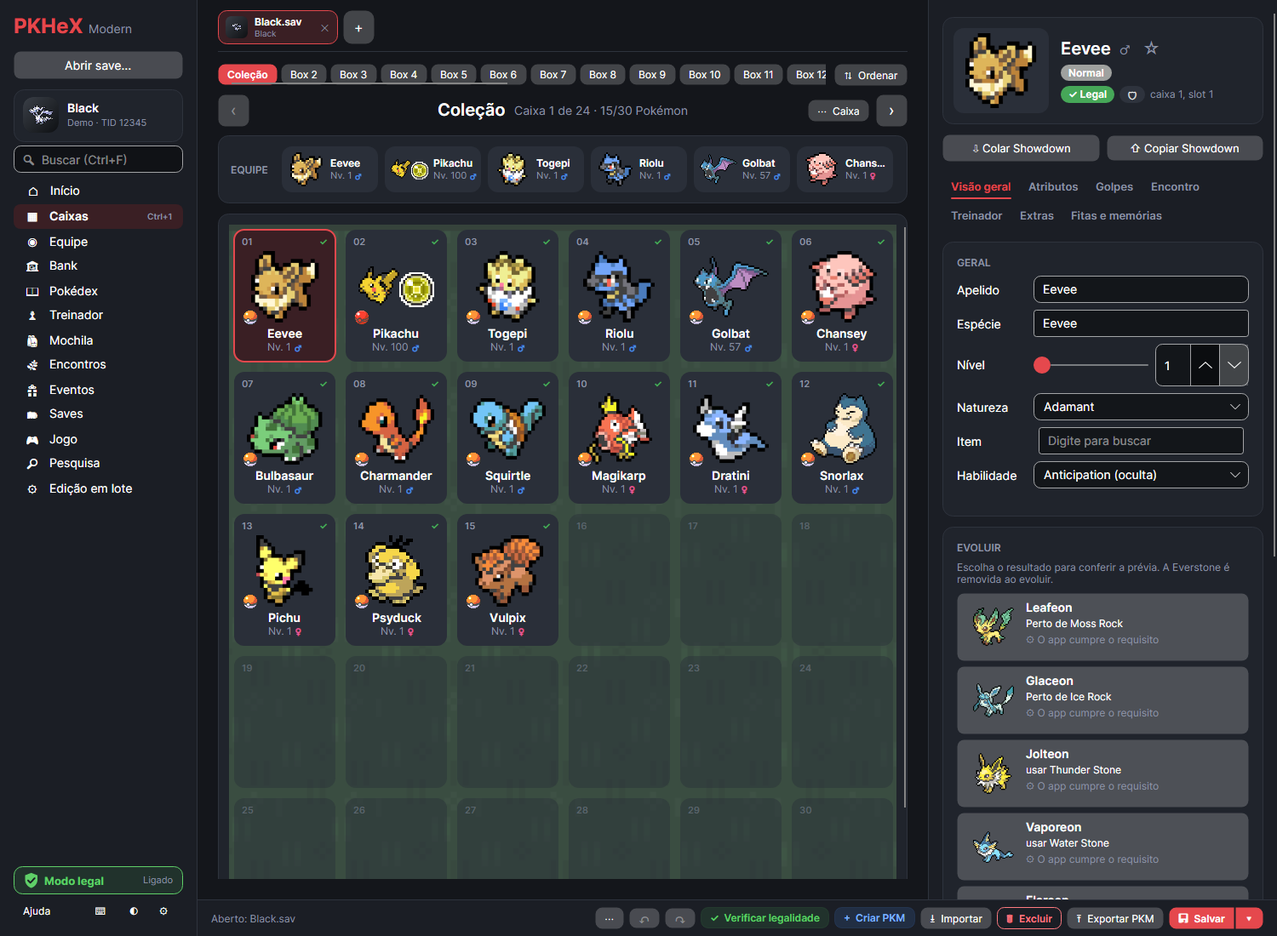
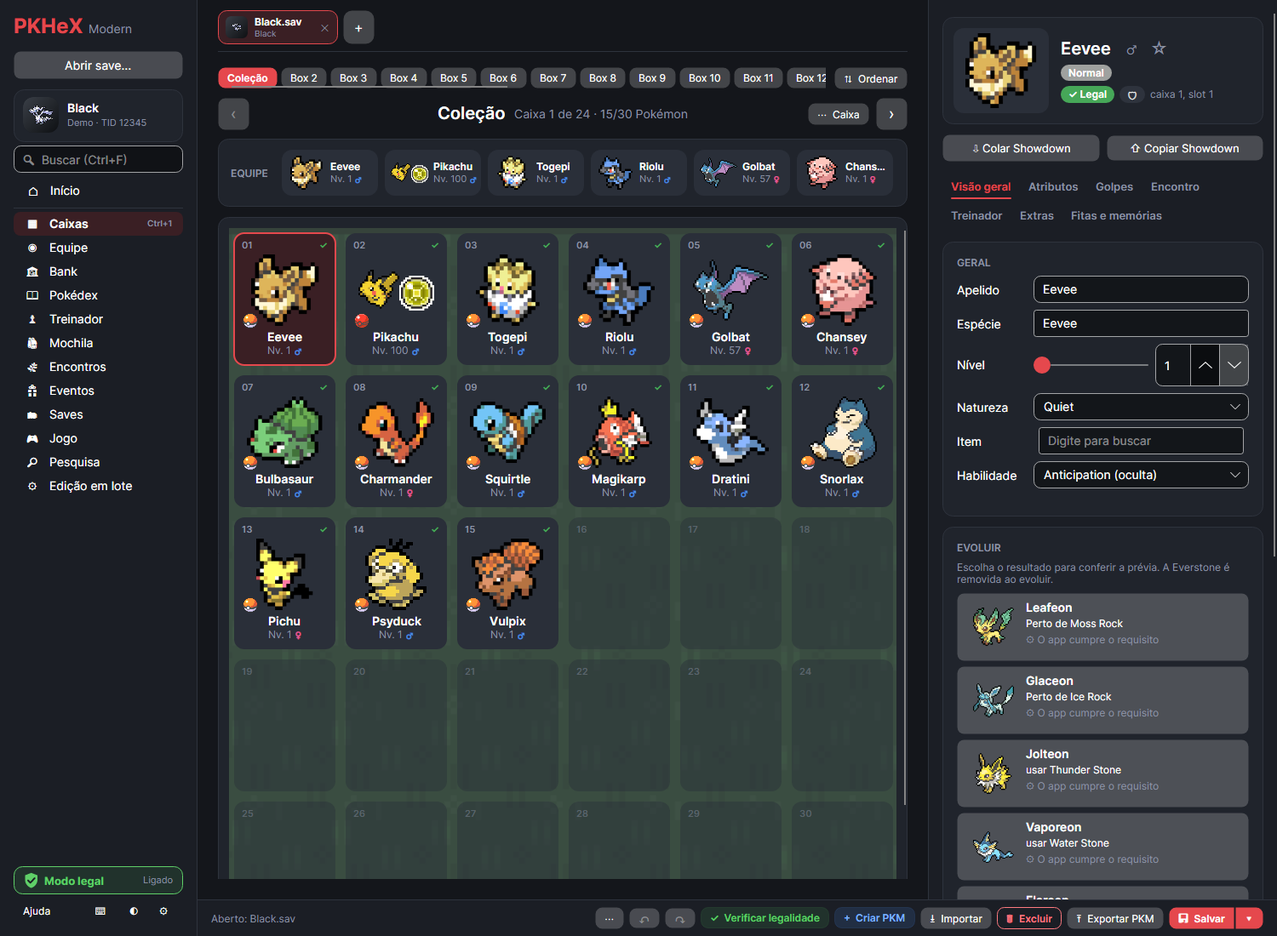
PKHeX.Modern: release 0.4.26 (phone layout fixes)
Editor header name and party card names shrink to fit wide fonts (gender
and shiny stay visible), Home cards in a row share the same height,
sidebar rows have a fixed height (Android emoji glyphs had different
heights) with a separator below Home, more space between file and box
tabs, narrower Pokédex details on smaller screens. Docs screenshots
updated.

diff --git a/PKHeX.Modern/Controls/Converters.cs b/PKHeX.Modern/Controls/Converters.cs
@@ -84,3 +84,14 @@ public sealed class WidthPickConverter : IValueConverter
 
     public object ConvertBack(object? value, Type targetType, object? parameter, CultureInfo culture) => throw new NotSupportedException();
 }
+
+/// <summary>Largura menos um valor fixo (parametro), nunca negativa. Ex.: espaco do nome descontando botoes ao lado.</summary>
+public sealed class SubtractConverter : IValueConverter
+{
+    public static readonly SubtractConverter Instance = new();
+
+    public object Convert(object? value, Type targetType, object? parameter, CultureInfo culture)
+        => value is double d && d > 0 ? Math.Max(0, d - double.Parse(parameter as string ?? "0", CultureInfo.InvariantCulture)) : double.PositiveInfinity;
+
+    public object ConvertBack(object? value, Type targetType, object? parameter, CultureInfo culture) => throw new NotSupportedException();
+}

diff --git a/PKHeX.Modern/CONTINUAR.md b/PKHeX.Modern/CONTINUAR.md
@@ -126,7 +126,7 @@ No GitHub, o workflow `.github/workflows/modern-build.yml` publica a cada push n
 - **Pendências:** `MainViewModel.PendingActions` = descrições do `SlotHistory` desde o último salvar/abrir (`_historyAtSave`). O link "● N alterações" abre a lista; "Salvar agora" dispara `SaveRequested`, que a `MainWindow` trata abrindo o seletor de arquivo.
 
 ## Estado atual e próximo passo (depois da 0.4.5 — 2026-10-03)
-- **Onde parou (15/10/2026):** última release **0.4.25** (revisão de UI/UX: cabeçalho da caixa numa linha com menu “⋯ Caixa”, painel do editor de 360 px abaixo de 1400 px — `WidthPickConverter`/`WidthAtLeastConverter` em `Controls/Converters.cs` —, Salvar ▾ com Salvar como, rodapé só com ações do save, Excluir com contorno, “Aplicar” x “Salvar” em todo o app, Mochila com vagas livres, nomes dos bolsos em português, Ajuda marcada na barra lateral). Pendentes da análise: ícones vetoriais, grupos na barra lateral (mudaria Ctrl+1–9) e Início com status do save; antes, **0.4.24** (Treinador com insígnias/gênero/moedas/BP/datas — `Services/TrainerExtras.cs`; completar a Pokédex do save — `Services/DexCompletion.cs`, desfazer da página Pokédex pelo histórico da página Jogo; atalhos de liberar tudo — O-Powers, Super Training, Zygarde Cells, Grand Underground, esferas); antes, **0.4.23** (sincronizado com o PKHeX do kwsch até 13/10: versão do HGSS, Dratini com ExtremeSpeed, PSS6, papéis de parede que faltavam, portados para `PKHeX.Modern.Sprites/WallpaperUtil.cs`); antes, **0.4.22** (temas ORAS e Kanto, tamanho dos sprites, página de divulgação); antes, **0.4.21** (editores por jogo, etapa 4); antes, **0.4.20** (Pokédex só do save aberto, Todos os TMs, roamers da Gen 3; antes, na 0.4.19: sexta leva do Codex juntada e publicada; não há leva pendente). Histórico: depois da **0.4.17** (ver “Última release” abaixo); em seguida: Android em tela cheia, repositório renomeado para PKHeX-Modern e sexta tarefa do Codex (`TAREFA-CODEX-FUNCOES-6.md`: auditoria de duplicados e aplicar a Living Dex). Antes, na 0.4.16: a **terceira leva do Codex** (prévia de alterações, legalidade por assunto, diagnóstico, planejador de Living Dex; branch `modern-features-3`) com a revisão do Claude (`b5503b2cc`: Pokébola legal pela cor — o termo “Bola legal” virou “Pokébola legal” —, Encontros da Living Dex no save aberto, transferências só perguntam com mudança importante, legalizar em grupo pergunta antes, mensagens do Legalizar de volta, Ajuda nas seções certas) e o **Legalizar em lote** (ação rápida da Edição em lote; Aplicar grava exatamente o pré-visualizado). Na época, as 43 suítes passaram (nenhuma pulada: `saves/` deste PC já tem Shield, Scarlet, Z-A e Legends Arceus) e o Android compilou. Está anotado em "Próxima versão" no CHANGELOG. Também juntada a **quarta leva do Codex** (seleção por toque no Android, prévia dos temas e intensidade do papel de parede, consulta do Bank somente leitura, backups com motivo e SHA-256, uma análise de legalidade por atualização no editor; branch `modern-features-4`) com a revisão do Claude (`3232348f5`: no toque, segurar um botão mostra a dica sem executar, em vez de um ⓘ em todo botão; segurar e arrastar um slot não deixa a seleção ligada). 48 suítes passaram e o Android compilou; falta testar no aparelho o toque longo e o arraste. Na 0.4.17: **Equipe Showdown** (`Services/ShowdownBatch.cs`, `MainViewModel.ShowdownTeam.cs`: colar vários sets na equipe ou na caixa com prévia e um desfazer, copiar equipe/caixa; teste `ShowdownTeam`), correção de espécie fora do formato no Colar Showdown, Pesquisa lendo cópias dos saves em modo somente leitura, Living Dex com `BoxSlotCount` e “outros exemplares”, `SlotHistory.Rollback()`. **Quinta leva do Codex** (`TAREFA-CODEX-FUNCOES-5.md`: evolução assistida e relatório CSV) revisada (`bc689f39b`: lista Evoluir sem rolagem própria) e publicada; auditoria de duplicados e aplicação da Living Dex avaliadas e adiadas em `CONSULTA-CLAUDE-AUDITORIA-DUPLICADOS.md`. O Codex trabalha neste PC em `.worktrees/` (excluído do Git; as worktrees das levas 3–6 foram apagadas depois de juntadas); o JDK 21 do build Android fica em `.tools/jdk-21`.
+- **Onde parou (15/10/2026):** última release **0.4.26** (ajustes do celular: nome do editor e da Equipe encolhem com `Viewbox StretchDirection=DownOnly` + `SubtractConverter`, cartões do Início com `VerticalAlignment=Stretch`, linhas da barra lateral com altura fixa de 28 px por causa dos emojis do Android, separador entre Início e a lista, painel da Pokédex de 250 px abaixo de 1400 px; o celular em paisagem mede ~1342×620 em unidades de projeto). Antes, **0.4.25** (revisão de UI/UX: cabeçalho da caixa numa linha com menu “⋯ Caixa”, painel do editor de 360 px abaixo de 1400 px — `WidthPickConverter`/`WidthAtLeastConverter` em `Controls/Converters.cs` —, Salvar ▾ com Salvar como, rodapé só com ações do save, Excluir com contorno, “Aplicar” x “Salvar” em todo o app, Mochila com vagas livres, nomes dos bolsos em português, Ajuda marcada na barra lateral). Pendentes da análise: ícones vetoriais, grupos na barra lateral (mudaria Ctrl+1–9) e Início com status do save; antes, **0.4.24** (Treinador com insígnias/gênero/moedas/BP/datas — `Services/TrainerExtras.cs`; completar a Pokédex do save — `Services/DexCompletion.cs`, desfazer da página Pokédex pelo histórico da página Jogo; atalhos de liberar tudo — O-Powers, Super Training, Zygarde Cells, Grand Underground, esferas); antes, **0.4.23** (sincronizado com o PKHeX do kwsch até 13/10: versão do HGSS, Dratini com ExtremeSpeed, PSS6, papéis de parede que faltavam, portados para `PKHeX.Modern.Sprites/WallpaperUtil.cs`); antes, **0.4.22** (temas ORAS e Kanto, tamanho dos sprites, página de divulgação); antes, **0.4.21** (editores por jogo, etapa 4); antes, **0.4.20** (Pokédex só do save aberto, Todos os TMs, roamers da Gen 3; antes, na 0.4.19: sexta leva do Codex juntada e publicada; não há leva pendente). Histórico: depois da **0.4.17** (ver “Última release” abaixo); em seguida: Android em tela cheia, repositório renomeado para PKHeX-Modern e sexta tarefa do Codex (`TAREFA-CODEX-FUNCOES-6.md`: auditoria de duplicados e aplicar a Living Dex). Antes, na 0.4.16: a **terceira leva do Codex** (prévia de alterações, legalidade por assunto, diagnóstico, planejador de Living Dex; branch `modern-features-3`) com a revisão do Claude (`b5503b2cc`: Pokébola legal pela cor — o termo “Bola legal” virou “Pokébola legal” —, Encontros da Living Dex no save aberto, transferências só perguntam com mudança importante, legalizar em grupo pergunta antes, mensagens do Legalizar de volta, Ajuda nas seções certas) e o **Legalizar em lote** (ação rápida da Edição em lote; Aplicar grava exatamente o pré-visualizado). Na época, as 43 suítes passaram (nenhuma pulada: `saves/` deste PC já tem Shield, Scarlet, Z-A e Legends Arceus) e o Android compilou. Está anotado em "Próxima versão" no CHANGELOG. Também juntada a **quarta leva do Codex** (seleção por toque no Android, prévia dos temas e intensidade do papel de parede, consulta do Bank somente leitura, backups com motivo e SHA-256, uma análise de legalidade por atualização no editor; branch `modern-features-4`) com a revisão do Claude (`3232348f5`: no toque, segurar um botão mostra a dica sem executar, em vez de um ⓘ em todo botão; segurar e arrastar um slot não deixa a seleção ligada). 48 suítes passaram e o Android compilou; falta testar no aparelho o toque longo e o arraste. Na 0.4.17: **Equipe Showdown** (`Services/ShowdownBatch.cs`, `MainViewModel.ShowdownTeam.cs`: colar vários sets na equipe ou na caixa com prévia e um desfazer, copiar equipe/caixa; teste `ShowdownTeam`), correção de espécie fora do formato no Colar Showdown, Pesquisa lendo cópias dos saves em modo somente leitura, Living Dex com `BoxSlotCount` e “outros exemplares”, `SlotHistory.Rollback()`. **Quinta leva do Codex** (`TAREFA-CODEX-FUNCOES-5.md`: evolução assistida e relatório CSV) revisada (`bc689f39b`: lista Evoluir sem rolagem própria) e publicada; auditoria de duplicados e aplicação da Living Dex avaliadas e adiadas em `CONSULTA-CLAUDE-AUDITORIA-DUPLICADOS.md`. O Codex trabalha neste PC em `.worktrees/` (excluído do Git; as worktrees das levas 3–6 foram apagadas depois de juntadas); o JDK 21 do build Android fica em `.tools/jdk-21`.
 - **Versão dos saves da Gen 1–3 (`Services/SaveNameHint.cs`):** usa as regras do Core (`SaveLanguage.InferFrom1/2/3`) com mais lugares: nome do arquivo ou da entrada do zip, pasta dentro do zip, nome do zip e pasta do arquivo, nessa ordem; vale a primeira pista coerente com o tipo do save (japonês x ocidental, R/S, FR/LG...). Chamado em `CoreAdapter.LoadSave`, `ZipSaves.TryRead`, `SaveLibrary` e `PokedexService.TryRead`. Sem pista, a versão fica no par (RB, GS, RS, FRLG): `CoreAdapter.GetGameName` mostra "Ruby / Sapphire" e `GameArt` tem `Species2`/`IsDual` (selo duplo, os dois mascotes num `Viewbox` 100×100 em todos os selos). Teste `NameHint`.
 - **Pesquisa (`Services/PokemonDatabase.cs`, `ViewModels/SearchPageViewModel.cs`, template em `App.axaml`):** página no fim da lista (sem Ctrl+número; `Search.Shortcut = "Ctrl+Shift+F"`, tecla tratada em `MainWindow.OnKeyDown`). Lê em segundo plano as abas abertas (a ativa com `_sav`), os saves da pasta (inclusive zip, com cache por data do arquivo) e o bank. `DbEntry` monta os textos uma vez; o filtro roda em memória. `MainViewModel.OpenSearchResultAsync` abre/ativa a aba e chama `GoToSlotAsync`; no bank, troca `Bank.SelectedBank`/`BoxIndex`. **Sem filtro de legalidade de propósito:** a análise depende do save ativo (`ParseSettings`), daria resultado errado nos outros saves. Teste `Search` (saves sintéticos Black/White/W2 em zip + bank).
 - **Saves em branco que gravam:** Gen 5 (B, W, W2) gravam e são reconhecidos; X (Gen 6) grava mas não é reconhecido ao ler; E (Gen 3) e Pt (Gen 4) falham ao gravar.
@@ -149,7 +149,7 @@ No GitHub, o workflow `.github/workflows/modern-build.yml` publica a cada push n
 - **Evolução por felicidade:** `GetFriendshipEvolutions`/`EvolveByFriendship` oferecem os destinos e ajustam `CurrentFriendship` ao mínimo. Gen 2 precisa normalizar os métodos simplificados da tabela. Gen 6/7 Sylveon exige carinho com o treinador atual; Gen 8+ exige felicidade e golpe Fairy. O editor testa uma cópia no modo legal antes de aceitar. Suite sintética `Friendship`: evoluções legais Gen 2–9, aumento de felicidade, nível, ovos, Everstone, prioridade de Sylveon, carinho, reversão de resultado ilegal e render headless.
 - **Repositório renomeado para `carlosmozart/PKHeX-Modern` em 06/10/2026** (fora da rede de forks do kwsch/PKHeX). `UpdateChecker.Repo` usa o nome novo; `UpdateChecker.OldRepo` (o antigo) continua aceito em `AutoUpdater.IsReleaseDownload`. O GitHub redireciona o nome antigo (API, páginas, git). Versões até a 0.4.10 não aceitam links do nome novo e precisam baixar à mão uma vez. Remote: `git remote set-url origin https://github.com/carlosmozart/PKHeX-Modern.git` (em cada PC).
 - **Pasta de saves no Android (resolvido em 03/10/2026):** só apareciam os saves abertos um por um porque a pasta tinha sido escolhida antes da 0.4.10, que não guardava a escolha; escolher a pasta de novo carregou todos os saves de `roms/saves`. A 0.4.12 mostra o resumo da leitura na barra de status (`MobileSaveFolder.LastSummary`) e pula arquivos com erro.
-- Última release: **0.4.25** (tag `modern-v0.4.25`: revisão de UI/UX — densidade das Caixas, botões e vocabulário, Mochila, Ajuda). Anterior: **0.4.24** (tag `modern-v0.4.24`: Treinador completo, Pokédex completa do save e atalhos de liberar tudo; suítes `TrainerExtras`, `DexComplete`, `UnlockShortcuts`). Anterior: **0.4.23** (tag `modern-v0.4.23`: merge do upstream kwsch/PKHeX até 13/10 e port dos papéis de parede novos — Colosseum/XD, Battle Revolution, sufixo dp, My Wallpaper do Pokémon Box). Anterior: **0.4.22** (tag `modern-v0.4.22`: temas ORAS e Kanto (cor Água), tamanho dos sprites (`Theme/SpriteScale.cs`, `Controls/DexGridLayout.cs`; o papel de parede da caixa não define mais a altura das linhas), opção de não oferecer legalizar ao clicar, página de divulgação `docs/index.html`). Anterior: **0.4.21** (tag `modern-v0.4.21`: editores por jogo, etapa 4 — abas Battle Frontier, Pokétch/Pokéwalker, Pokéathlon e Base secreta; suíte `GameStage4`). Anterior: **0.4.20** (tag `modern-v0.4.20`: Pokédex só do save aberto, botão Todos os TMs (99 de cada, em ordem), roamers da Gen 3 com IVs sorteados (`Services/RoamerIVs3.cs`), filtros da Pokédex em janelas pequenas; suíte `RoamerTMsDex`). Anterior: **0.4.19** (tag `modern-v0.4.19`: sexta leva do Codex revisada — auditoria de duplicados na Pesquisa (`Services/DuplicateAudit.cs`, `CollectionSources`, `StoredPokemon`) e aplicação da Living Dex (`Services/LivingDexApplication.cs`, um único desfazer, `SlotHistory.Rollback`); revisão do Claude `e7a40abd4`: saves com 10+ Pokémon idênticos viram par de backup mesmo sem zip, como as pastas de “main” do Switch). Antes: **0.4.18** (tag `modern-v0.4.18`: Android em tela cheia e repositório renomeado para PKHeX-Modern). Antes: **0.4.17** (tag `modern-v0.4.17`: quinta leva do Codex revisada — evolução assistida (`Services/AssistedEvolution.cs`, lista única “Evoluir” com prévia) e relatório CSV do save e do Bank (`Services/BoxReport.cs`) —, Equipe Showdown, Pesquisa com cópia dos saves, Living Dex com `BoxSlotCount`). Antes: **0.4.16** (tag `modern-v0.4.16`: terceira e quarta levas do Codex revisadas — prévia de alterações, legalidade por assunto, diagnóstico, planejador de Living Dex, Legalizar em lote, “Pokébola legal”, seleção e dicas por toque no Android, prévia dos temas e papel de parede, consulta do Bank, backups com motivo e SHA-256). Antes: **0.4.15** (tag `modern-v0.4.15`: animação da atualização — `Controls/UpdateAnimation`, demo em Ajuda › Sobre; atualizador escolhe a release mais nova que tem o pacote da plataforma; backups com limite por origem; ConfigChanges de teclado/Bluetooth no Android). Antes: **0.4.14** (tag `modern-v0.4.14`: legalizar ao clicar; segunda leva do Codex: desfazer na página Jogo, relógio Gen 3, errantes, donuts Z-A, roupas SV). Antes: **0.4.13** (tag `modern-v0.4.13`: Pokérus, Hidden Power, caixas em pasta, cartões de evento, creche, QR Gen 7 e raids, feitos pelo Codex no branch `modern-features` e revisados). Antes: **0.4.12** (tag `modern-v0.4.12`: resumo e erros da leitura da pasta de saves no Android). Antes: **0.4.11** (tag `modern-v0.4.11`: atualizador aceita o nome futuro do repositório; recomendado para o plano de renomear). Antes: **0.4.10** (tag `modern-v0.4.10`: Hall da Fama editável — `HallOfFame.SetMember/SetDate/DeleteTeam/CopyParty/RegisterParty`; pasta de saves no Android — `Services/MobileSaveFolder`, cópia em `documents/pasta/...`, documentos com `Relative` resolvidos pela pasta). Antes: **0.4.9** (tag `modern-v0.4.9`: atualização automática no Android — `AutoUpdater.InstallApk` + FileProvider `.updates` no MainActivity; bank em pasta externa no Android — `Services/MobileBankFolders`, cópia em `external-banks/<id>/<nome>` sincronizada, push com debounce via `BankStorage.ExternalChanged`). Antes: **0.4.8** (tag `modern-v0.4.8`: correções do Android: fontes embutidas de símbolos via `FontManagerOptions.FontFallbacks` no MainActivity, `$parent[views:MainView]` no lugar de `$parent[Window]`, atalhos escondidos com `App.ShowShortcuts`). Antes: **0.4.7** (tag `modern-v0.4.7`: Android). Antes: **0.4.6** (tag `modern-v0.4.6`: Linux e macOS, pacotes win-x64/linux-x64/osx-arm64/osx-x64, atualização por sistema). Antes: **0.4.5** (tag `modern-v0.4.5`: eventos do Gen 1, Let's Go e Z-A, atalhos de Pokémon fixos, títulos, Colorful Screws/TMs, estojos e Pokéathlon, Hall da Fama). Antes: **0.4.4** (tag `modern-v0.4.4`: eventos do Scarlet/Violet e do BD/SP, atalhos do BD/SP, saves da pasta na barra lateral). Antes: **0.4.3** (tag `modern-v0.4.3`: fonte Pixelify Sans no tema Pixel, seletor de fonte com Pokémon GB/GBC, abas das caixas centralizadas). Antes: **0.4.2** (tag `modern-v0.4.2`: barra lateral compacta, preferências no ⚙, capturas do README regeneradas). Antes: **0.4.1** (tag `modern-v0.4.1`: página Jogo com flags e valores de evento da Gen 2–7 e recordes da Gen 3, 5–8). Antes: **0.4.0** (tag `modern-v0.4.0`: Edição em lote, Pesquisa, versão dos saves Gen 1–3 pelo nome e selo duplo). Antes: **0.3.9** (tag `modern-v0.3.9`: tela inicial (Início, Ctrl+0, `ViewModels/HomePageViewModel.cs`), temas completos (`Theme/AppTheme.cs`: cores, raios `Radius*`, `CardBorderThickness`, `AppFontFamily`), Salvar corrigido (dica cobria o botão; mochila pendente aplicada no Salvar); testes `Home` e `SaveFocus`). Antes: **0.3.8** (menu de idiomas, botões de Feebas e felicidade). Anterior: **0.3.7** (tag `modern-v0.3.7`), branch `modern-ui`. Inclui layout das caixas, Save Manager, notas antes de atualizar, importação Mystery Gift, correção ao salvar, barra contextual e evoluções por felicidade/Beauty. As notas ficam em CHANGELOG e na release do GitHub.
+- Última release: **0.4.26** (tag `modern-v0.4.26`: ajustes de interface no celular). Anterior: **0.4.25** (tag `modern-v0.4.25`: revisão de UI/UX — densidade das Caixas, botões e vocabulário, Mochila, Ajuda). Anterior: **0.4.24** (tag `modern-v0.4.24`: Treinador completo, Pokédex completa do save e atalhos de liberar tudo; suítes `TrainerExtras`, `DexComplete`, `UnlockShortcuts`). Anterior: **0.4.23** (tag `modern-v0.4.23`: merge do upstream kwsch/PKHeX até 13/10 e port dos papéis de parede novos — Colosseum/XD, Battle Revolution, sufixo dp, My Wallpaper do Pokémon Box). Anterior: **0.4.22** (tag `modern-v0.4.22`: temas ORAS e Kanto (cor Água), tamanho dos sprites (`Theme/SpriteScale.cs`, `Controls/DexGridLayout.cs`; o papel de parede da caixa não define mais a altura das linhas), opção de não oferecer legalizar ao clicar, página de divulgação `docs/index.html`). Anterior: **0.4.21** (tag `modern-v0.4.21`: editores por jogo, etapa 4 — abas Battle Frontier, Pokétch/Pokéwalker, Pokéathlon e Base secreta; suíte `GameStage4`). Anterior: **0.4.20** (tag `modern-v0.4.20`: Pokédex só do save aberto, botão Todos os TMs (99 de cada, em ordem), roamers da Gen 3 com IVs sorteados (`Services/RoamerIVs3.cs`), filtros da Pokédex em janelas pequenas; suíte `RoamerTMsDex`). Anterior: **0.4.19** (tag `modern-v0.4.19`: sexta leva do Codex revisada — auditoria de duplicados na Pesquisa (`Services/DuplicateAudit.cs`, `CollectionSources`, `StoredPokemon`) e aplicação da Living Dex (`Services/LivingDexApplication.cs`, um único desfazer, `SlotHistory.Rollback`); revisão do Claude `e7a40abd4`: saves com 10+ Pokémon idênticos viram par de backup mesmo sem zip, como as pastas de “main” do Switch). Antes: **0.4.18** (tag `modern-v0.4.18`: Android em tela cheia e repositório renomeado para PKHeX-Modern). Antes: **0.4.17** (tag `modern-v0.4.17`: quinta leva do Codex revisada — evolução assistida (`Services/AssistedEvolution.cs`, lista única “Evoluir” com prévia) e relatório CSV do save e do Bank (`Services/BoxReport.cs`) —, Equipe Showdown, Pesquisa com cópia dos saves, Living Dex com `BoxSlotCount`). Antes: **0.4.16** (tag `modern-v0.4.16`: terceira e quarta levas do Codex revisadas — prévia de alterações, legalidade por assunto, diagnóstico, planejador de Living Dex, Legalizar em lote, “Pokébola legal”, seleção e dicas por toque no Android, prévia dos temas e papel de parede, consulta do Bank, backups com motivo e SHA-256). Antes: **0.4.15** (tag `modern-v0.4.15`: animação da atualização — `Controls/UpdateAnimation`, demo em Ajuda › Sobre; atualizador escolhe a release mais nova que tem o pacote da plataforma; backups com limite por origem; ConfigChanges de teclado/Bluetooth no Android). Antes: **0.4.14** (tag `modern-v0.4.14`: legalizar ao clicar; segunda leva do Codex: desfazer na página Jogo, relógio Gen 3, errantes, donuts Z-A, roupas SV). Antes: **0.4.13** (tag `modern-v0.4.13`: Pokérus, Hidden Power, caixas em pasta, cartões de evento, creche, QR Gen 7 e raids, feitos pelo Codex no branch `modern-features` e revisados). Antes: **0.4.12** (tag `modern-v0.4.12`: resumo e erros da leitura da pasta de saves no Android). Antes: **0.4.11** (tag `modern-v0.4.11`: atualizador aceita o nome futuro do repositório; recomendado para o plano de renomear). Antes: **0.4.10** (tag `modern-v0.4.10`: Hall da Fama editável — `HallOfFame.SetMember/SetDate/DeleteTeam/CopyParty/RegisterParty`; pasta de saves no Android — `Services/MobileSaveFolder`, cópia em `documents/pasta/...`, documentos com `Relative` resolvidos pela pasta). Antes: **0.4.9** (tag `modern-v0.4.9`: atualização automática no Android — `AutoUpdater.InstallApk` + FileProvider `.updates` no MainActivity; bank em pasta externa no Android — `Services/MobileBankFolders`, cópia em `external-banks/<id>/<nome>` sincronizada, push com debounce via `BankStorage.ExternalChanged`). Antes: **0.4.8** (tag `modern-v0.4.8`: correções do Android: fontes embutidas de símbolos via `FontManagerOptions.FontFallbacks` no MainActivity, `$parent[views:MainView]` no lugar de `$parent[Window]`, atalhos escondidos com `App.ShowShortcuts`). Antes: **0.4.7** (tag `modern-v0.4.7`: Android). Antes: **0.4.6** (tag `modern-v0.4.6`: Linux e macOS, pacotes win-x64/linux-x64/osx-arm64/osx-x64, atualização por sistema). Antes: **0.4.5** (tag `modern-v0.4.5`: eventos do Gen 1, Let's Go e Z-A, atalhos de Pokémon fixos, títulos, Colorful Screws/TMs, estojos e Pokéathlon, Hall da Fama). Antes: **0.4.4** (tag `modern-v0.4.4`: eventos do Scarlet/Violet e do BD/SP, atalhos do BD/SP, saves da pasta na barra lateral). Antes: **0.4.3** (tag `modern-v0.4.3`: fonte Pixelify Sans no tema Pixel, seletor de fonte com Pokémon GB/GBC, abas das caixas centralizadas). Antes: **0.4.2** (tag `modern-v0.4.2`: barra lateral compacta, preferências no ⚙, capturas do README regeneradas). Antes: **0.4.1** (tag `modern-v0.4.1`: página Jogo com flags e valores de evento da Gen 2–7 e recordes da Gen 3, 5–8). Antes: **0.4.0** (tag `modern-v0.4.0`: Edição em lote, Pesquisa, versão dos saves Gen 1–3 pelo nome e selo duplo). Antes: **0.3.9** (tag `modern-v0.3.9`: tela inicial (Início, Ctrl+0, `ViewModels/HomePageViewModel.cs`), temas completos (`Theme/AppTheme.cs`: cores, raios `Radius*`, `CardBorderThickness`, `AppFontFamily`), Salvar corrigido (dica cobria o botão; mochila pendente aplicada no Salvar); testes `Home` e `SaveFocus`). Antes: **0.3.8** (menu de idiomas, botões de Feebas e felicidade). Anterior: **0.3.7** (tag `modern-v0.3.7`), branch `modern-ui`. Inclui layout das caixas, Save Manager, notas antes de atualizar, importação Mystery Gift, correção ao salvar, barra contextual e evoluções por felicidade/Beauty. As notas ficam em CHANGELOG e na release do GitHub.
 - **Capturas públicas:** `dotnet run -c Release --project Tools/PKHeX.Modern.Tests/Docs -- PKHeX.Modern/docs` regenera todos os prints do README com saves sintéticos; não usa saves pessoais nem captura o desktop.
 - **Validação da 0.3.7:** todas as 12 suítes de `run-tests.ps1` passaram, incluindo as seis novas (`Layout`, `SaveManager`, `Updates`, `SaveAndGifts`, `Friendship`, `Feebas`). Capturas de documentação regeneradas com o projeto `Docs`. No outro PC, use `git pull origin modern-ui`; os saves reais de teste continuam fora do Git.
 - **Fluxo de release:** subir `<Version>` no csproj; trocar "## Próxima versão" no CHANGELOG por "## X.Y.Z — data"; atualizar a linha acima; commit e push; `git tag modern-vX.Y.Z && git push origin modern-vX.Y.Z` (o CI publica o zip em ~3 min: `gh run watch`); `gh release edit modern-vX.Y.Z --latest --title "PKHeX Modern X.Y.Z" --notes-file notas.md` com as notas em PT-BR (modelo: o texto da release anterior, `gh release view modern-v0.3.6`). As notas começam dizendo como atualizar (atualização automática a partir da 0.3.0; Reiniciar funciona a partir da 0.3.5).

diff --git a/PKHeX.Modern/CHANGELOG.md b/PKHeX.Modern/CHANGELOG.md
@@ -6,6 +6,15 @@ Ao adicionar uma função, anote em "Próxima versão"; na release, troque o tí
 Formato: "## versão — data", "### seção", "- item".
 -->
 
+## 0.4.26 — 2026-10-15
+
+### 📱 Celular e telas pequenas
+- **Nome no editor:** com fontes largas (como Pokémon GB), o nome do Pokémon encolhe para caber e o gênero ♂/♀ e a estrela de shiny ficam sempre visíveis; o local ("equipe, posição 1") encurta com "…".
+- **Cartões da Equipe:** nomes longos (Blastoise, Charizard) encolhem em vez de serem cortados.
+- **Início:** os cartões de uma mesma linha têm a mesma altura.
+- **Barra lateral:** todas as páginas com a mesma altura (os emojis do Android tinham alturas diferentes e desalinhavam a lista), e uma linha separa o "Início" da lista quando ela rola.
+- **Caixas e Pokédex:** as abas das caixas ganharam folga das abas dos saves, e o painel de detalhes da Pokédex fica mais estreito em telas menores, para os filtros não cortarem.
+
 ## 0.4.25 — 2026-10-15
 
 ### 🎨 Interface
